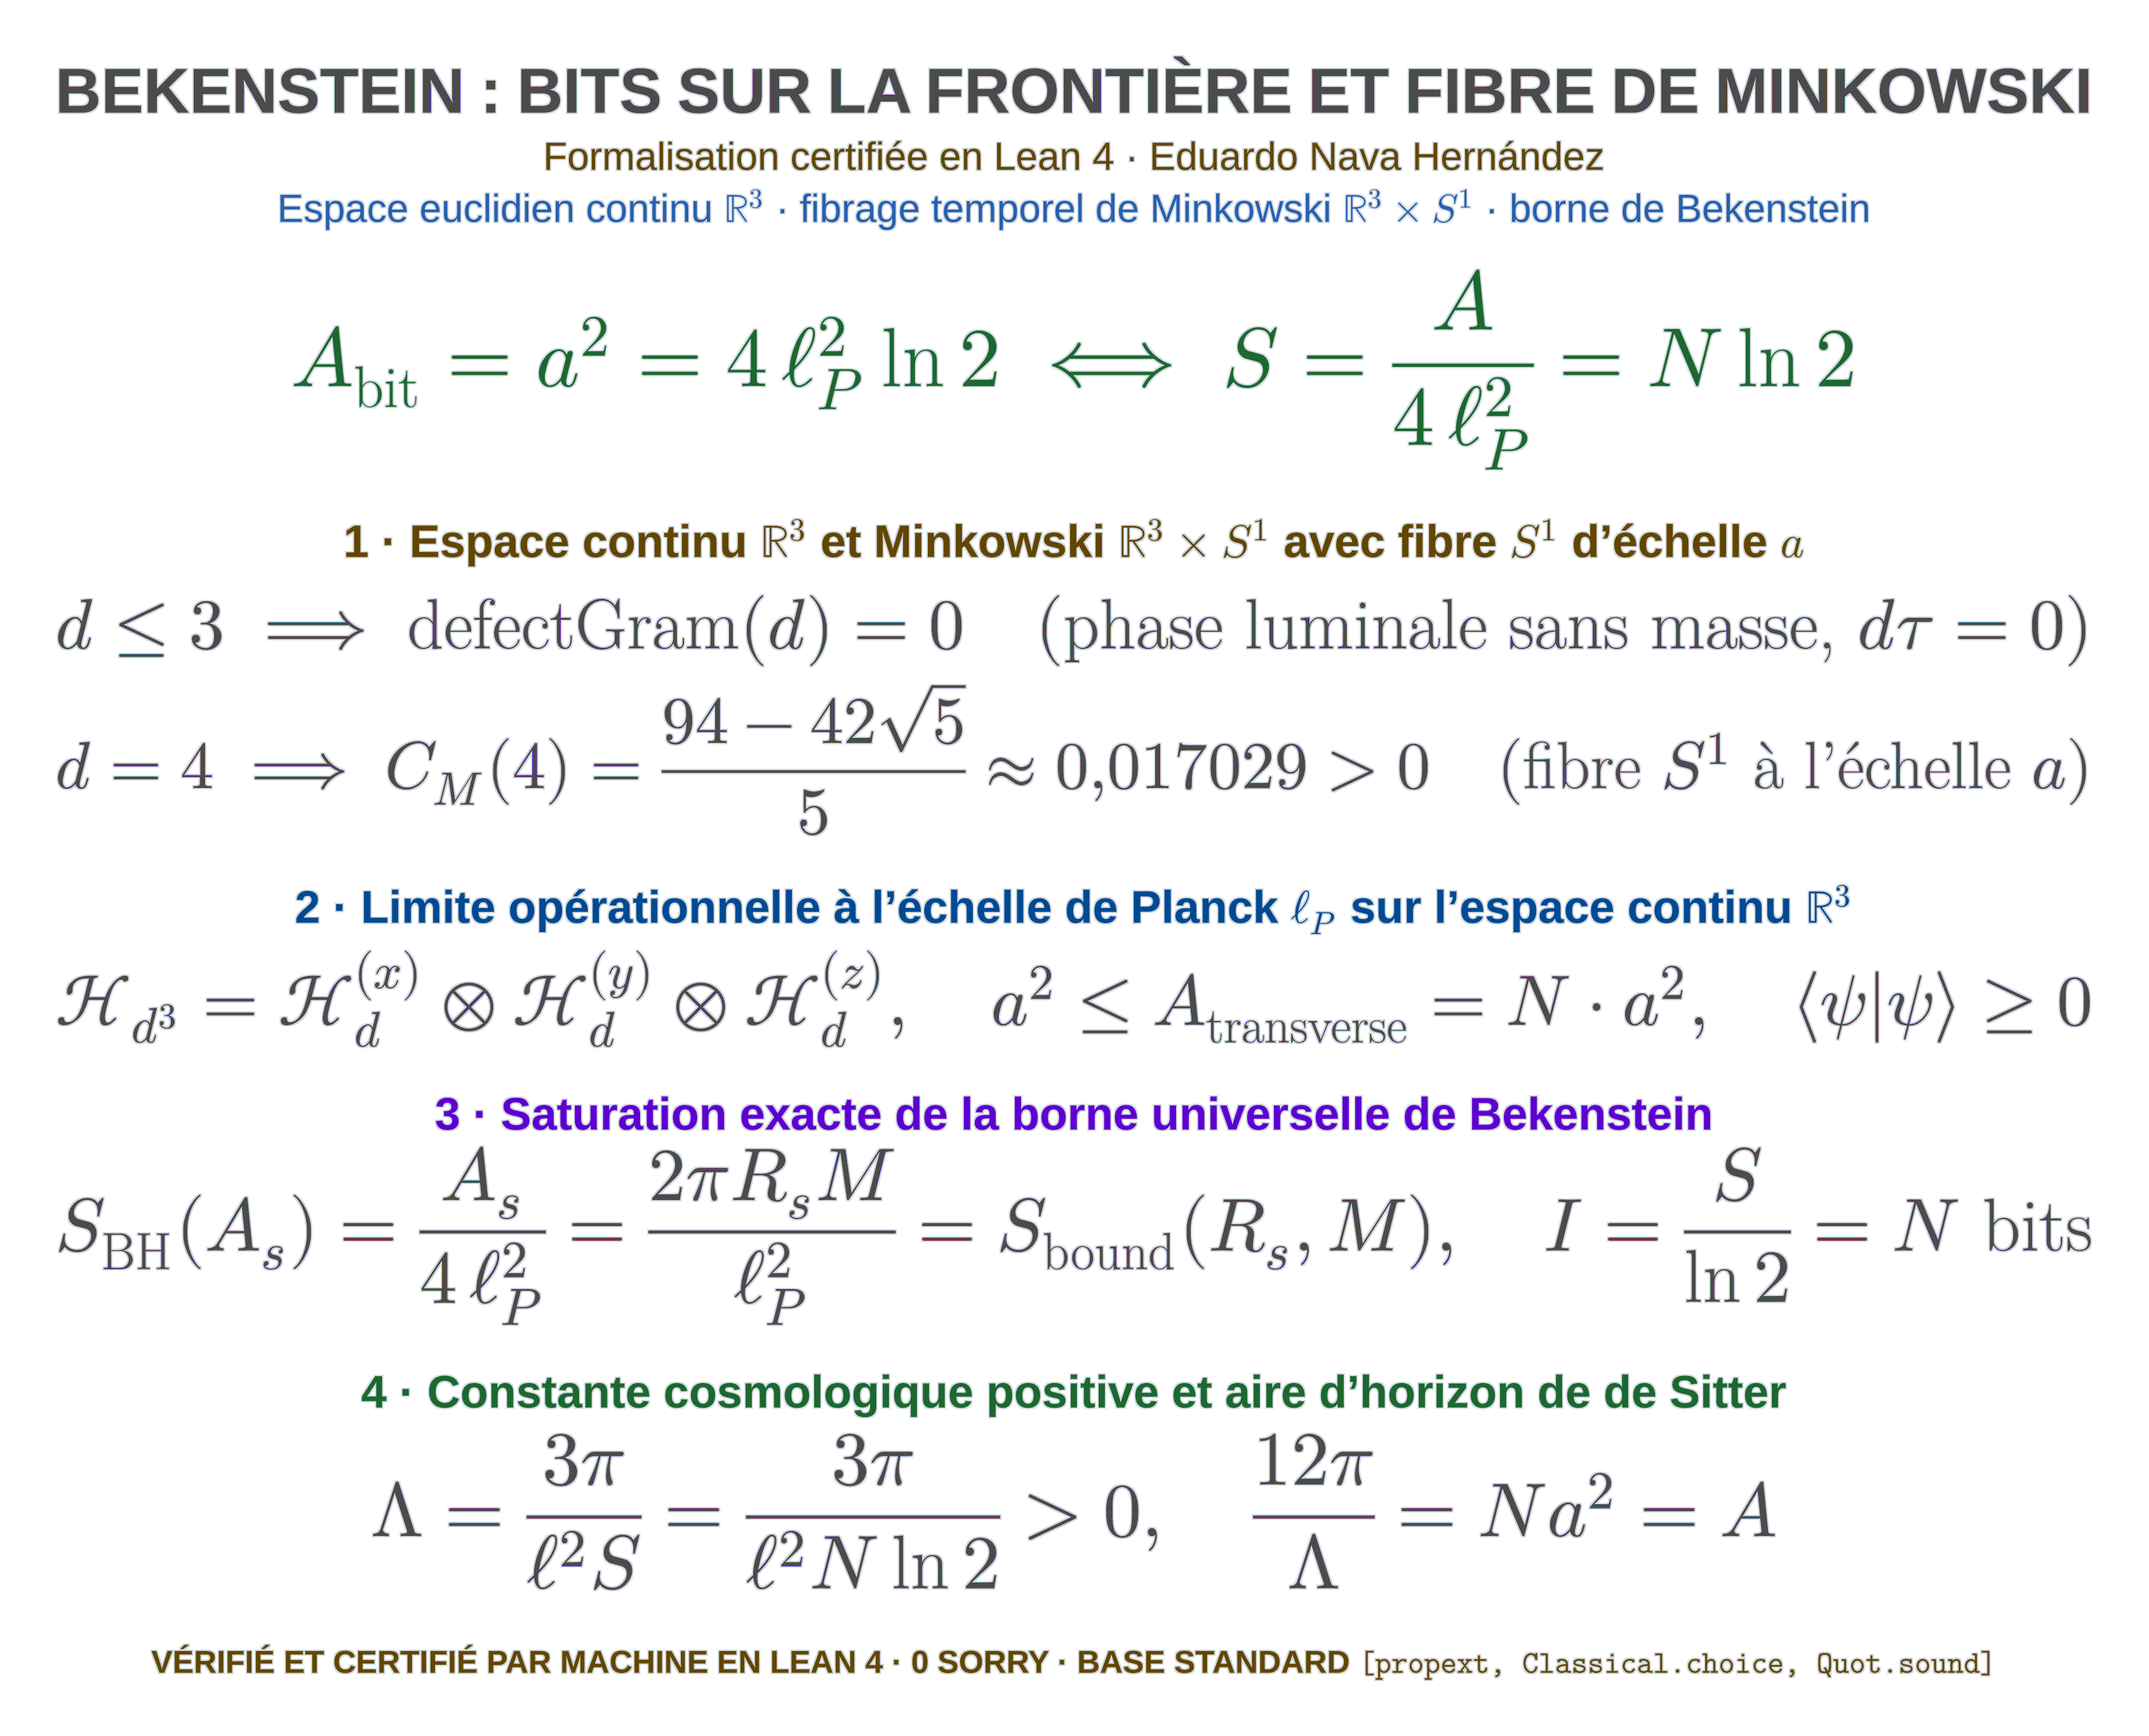
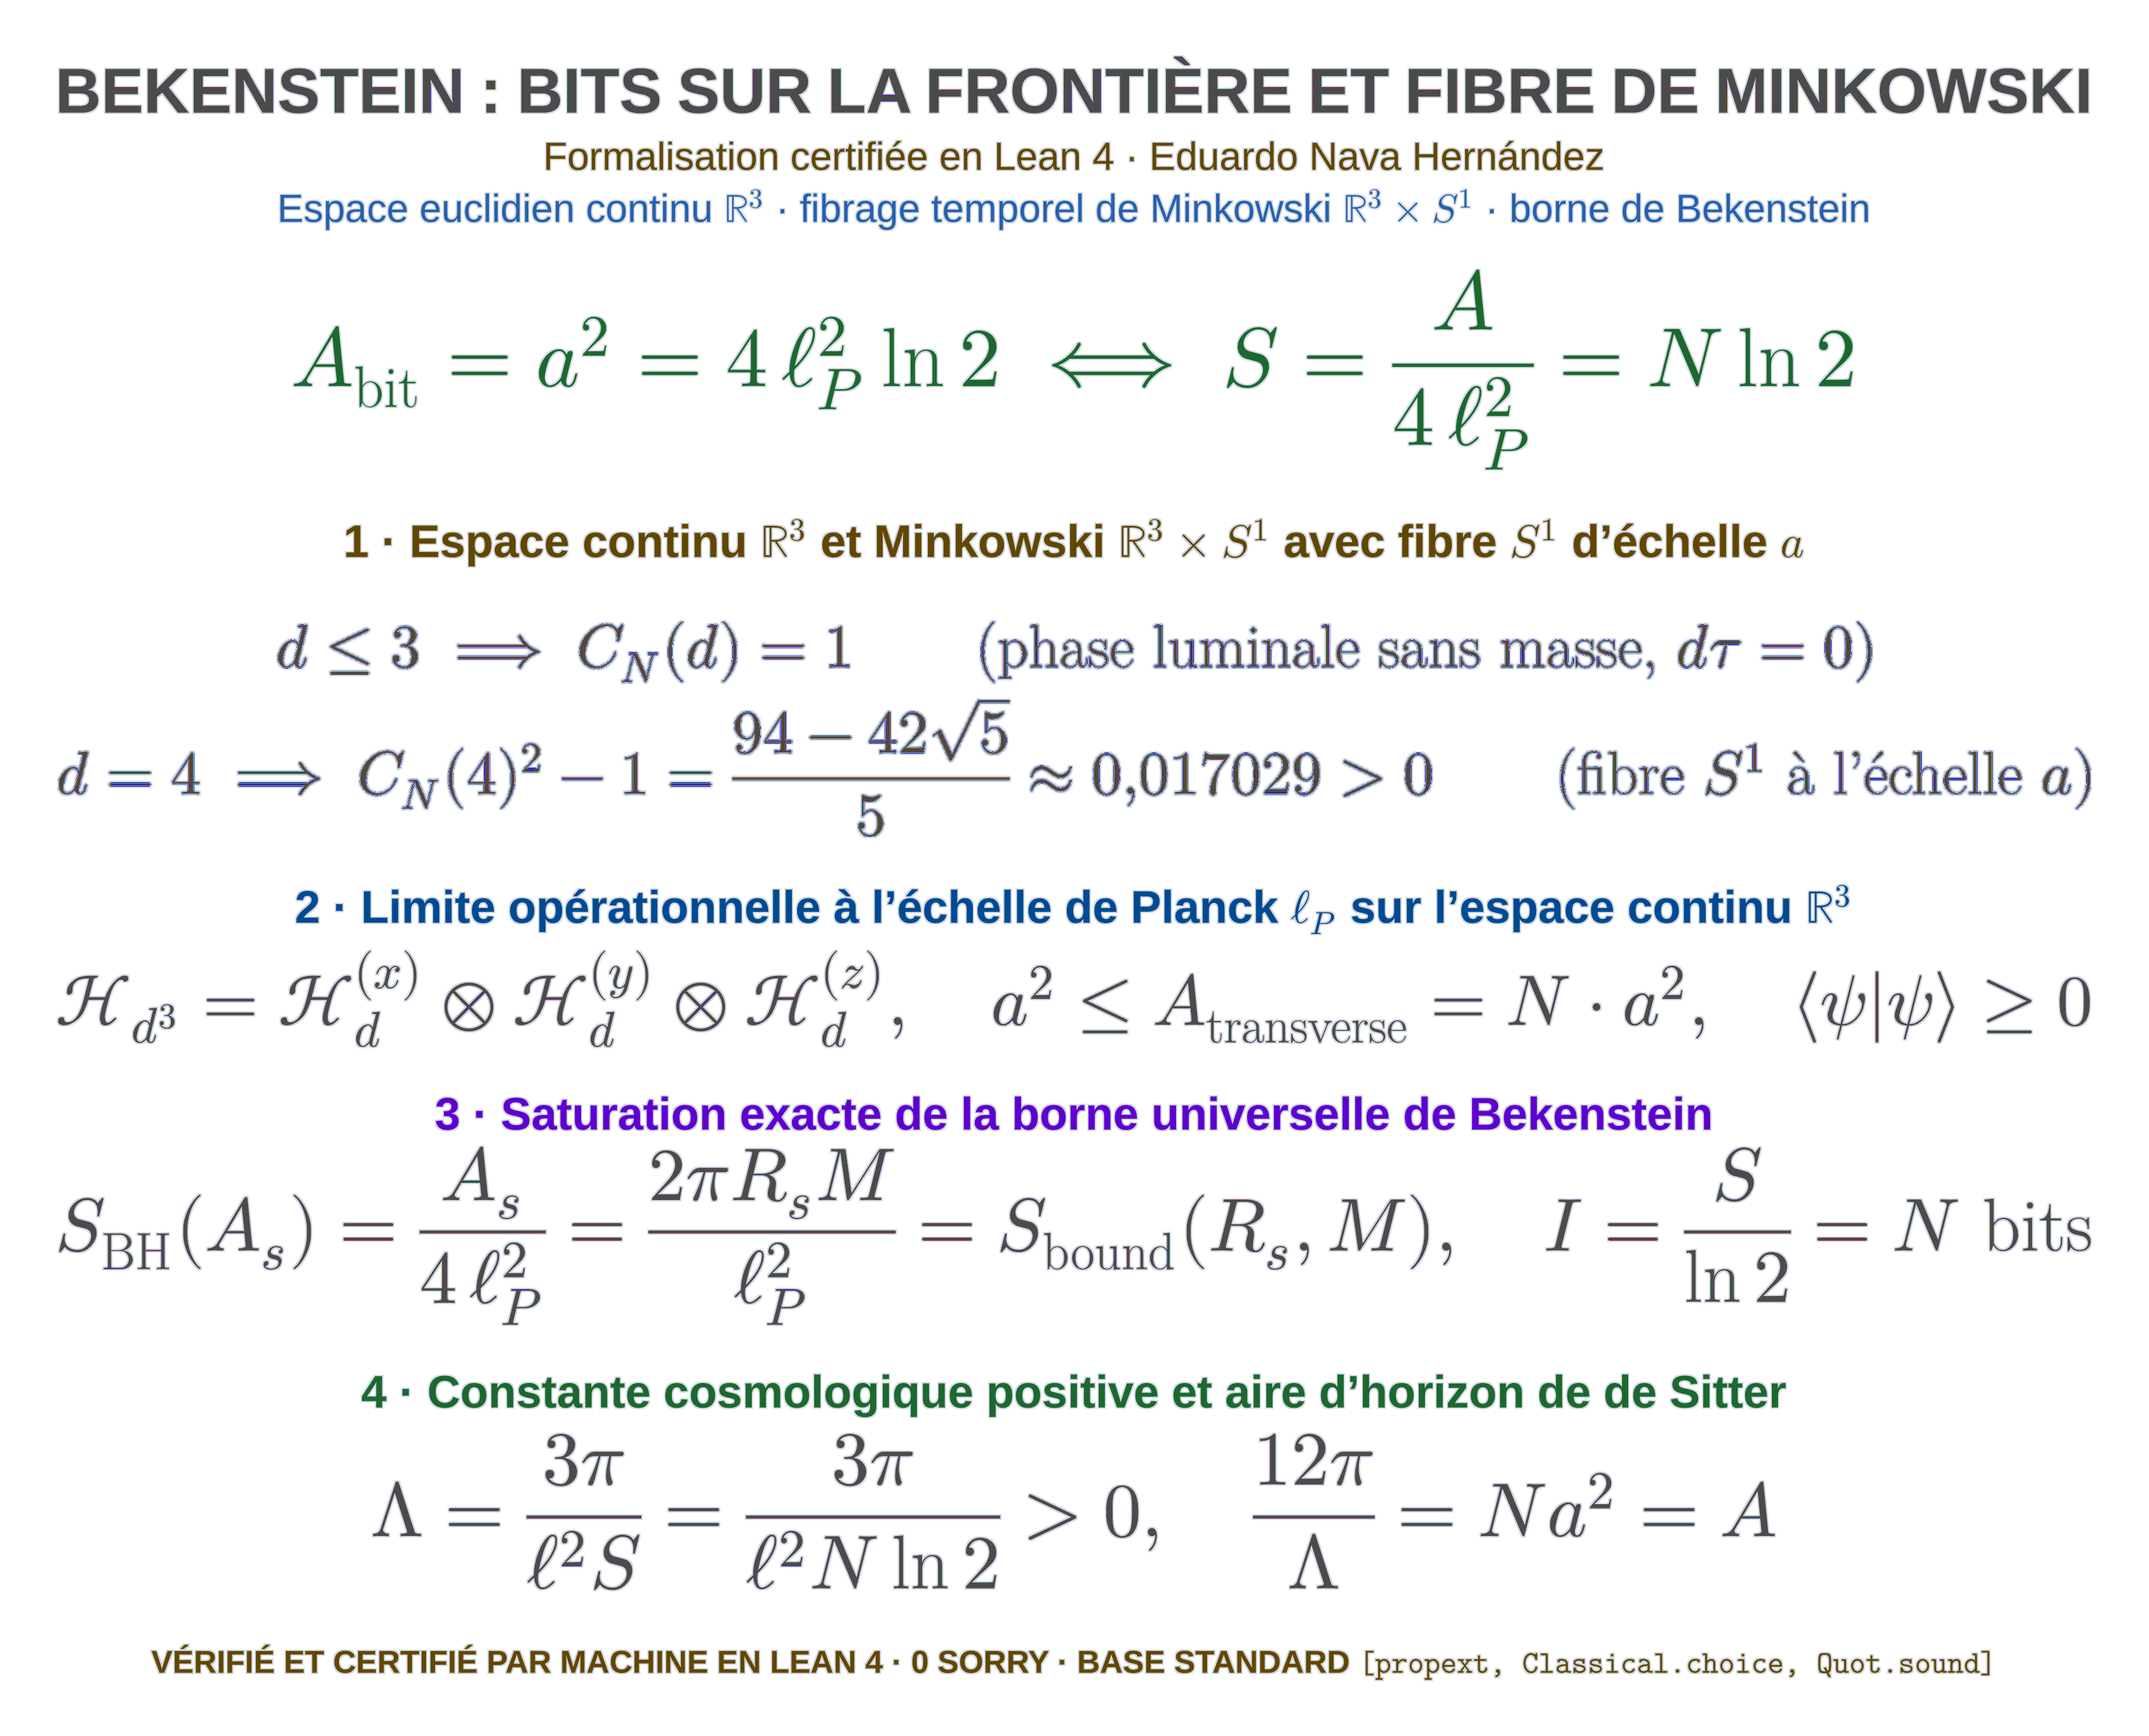
docs(readme): résumé formel, catalogue, ordre canonique ; pilier 1 en C_N (unités de Planck)

Changed region(s): [[0.031, 0.342, 0.9929, 0.4974]]

diff --git a/README.md b/README.md
@@ -42,10 +42,10 @@
 > **1 · Espace continu infini ℝ³ et Minkowski ℝ³ × S¹ avec fibre temporelle d'échelle a.**  
 > L'espace physique tridimensionnel est l'espace euclidien continu ouvert ℝ³.
 > La 4ᵉ dimension est la fibre temporelle propre sur S¹ à l'échelle du générateur `a` :
-> * Phase spatiale pure 3D (`d ≤ 3`) : `defectGram(d) = 0`, phase luminale sans masse (`dτ = 0`).
+> * Phase spatiale pure 3D (`d ≤ 3`) : `C_N(d) = 1`, phase luminale sans masse (`dτ = 0`).
 > * Parcours du temps propre (`d = 4`, `dτ > 0`) : active les matrices de Clifford et le défaut
->   irréductible de Szegő `C_M(4) = (94 − 42√5)/5 ≈ 0.017029 > 0`.
-> * Positivité hilbertienne : `⟨ψ|ψ⟩ ≥ 0 ⟹ defectGram(d) ≥ 0` (flèche causale stricte).
+>   irréductible de Szegő `C_N(4)² − 1 = (94 − 42√5)/5 ≈ 0.017029 > 0` (dépôt canonique, modules D8 et D20).
+> * Positivité hilbertienne : `⟨ψ|ψ⟩ ≥ 0 ⟹` défaut de Gram `≥ 0` (flèche causale stricte).
 >
 > **2 · Limite opérationnelle à l'échelle de Planck ℓ_P (pas de treillis spatial rigide).**  
 > Ce qui est quantifié est la résolution `d` du générateur de transport métrique `(T_d, P_d)`
@@ -75,7 +75,18 @@
 
 ---
 
-## Cadre géométrique : espace continu ℝ³ et variété Minkowski ℝ³ × S¹
+## ⚡ Résumé formel
+
+*Convention : les modules Lean travaillent en unités de Planck (G = c = ħ = 1) ; les formules affichées restituent k_B, ħ, c et G.*
+
+* L'aire d'un bit sur la fibre de Minkowski est `a² = 4 ℓ_P² log 2`, et `S_BH(N · a²) = N log 2` si et seulement si cette aire vaut un bit : [`NRS3Bekenstein/BoundaryBits.lean`](NRS3Bekenstein/BoundaryBits.lean) (`bekenstein_bit_area_eq_fiber_area`, `bekenstein_hawking_entropy_eq_bits`, `bekenstein_hawking_iff_bit_area`).
+* La borne universelle `2 π R M / ℓ_P²` est saturée par le trou noir de Schwarzschild, et la capacité vaut `N` bits : [`NRS3Bekenstein/BekensteinBound.lean`](NRS3Bekenstein/BekensteinBound.lean) (`schwarzschild_saturates_bekenstein_bound`, `maxInformationBits_boundaryArea`).
+* Toute coupe transverse opérationnelle porte au moins un bit, `a² ≤ (dy · dz · k) · a²` : [`NRS3Bekenstein/OperationalLimit.lean`](NRS3Bekenstein/OperationalLimit.lean) (`transverseCount_pos`, `operational_area_ge_single_bit`).
+* `Λ = 3 π / (ℓ² N log 2) > 0`, strictement décroissante en `N`, et l'aire d'horizon de de Sitter vaut `12 π / Λ = N a²` : [`NRS3Bekenstein/CosmologicalConstant.lean`](NRS3Bekenstein/CosmologicalConstant.lean) (`cosmologicalConstantBits_pos`, `cosmologicalConstantBits_strictAnti`, `horizonArea_cosmologicalConstantBits`).
+
+---
+
+## 🧭 Cadre géométrique : espace continu ℝ³ et variété Minkowski ℝ³ × S¹
 
 Dans la physique classique de la gravitation, Jacob Bekenstein (1947–2015, né à Mexico) a
 compris que l'information thermodynamique maximale ne remplit pas le volume d'une région, mais
@@ -88,9 +99,9 @@ Notre formalisation démontre que ce résultat découle de la géométrie contin
 * Le produit tensoriel `ℋ_{d³} = ℋ_d^{(x)} ⊗ ℋ_d^{(y)} ⊗ ℋ_d^{(z)}` assure la commutation
   des déplacements transverses `[O_X, O_Y] = 0`.
 * La variété d'espace-temps est Minkowski `ℝ³ × S¹` :
-  * Pour `d ≤ 3`, la phase luminale est sans masse (`defectGram = 0`, `dτ = 0`).
+  * Pour `d ≤ 3`, la phase luminale est sans masse (`C_N(d) = 1`, `dτ = 0`).
   * Pour `d = 4`, la progression le long de la fibre temporelle propre (`dτ > 0`) active la
-    structure spinorielle et le défaut de Szegő `C_M(4) > 0`.
+    structure spinorielle et le défaut de Szegő `C_N(4)² − 1 > 0`.
   * La surface minimale d'un bit de Bekenstein sur la frontière est l'aire de cette fibre :
     `a² = 4 ℓ_P² log 2`.
 
@@ -143,7 +154,14 @@ Notre formalisation démontre que ce résultat découle de la géométrie contin
 
 ---
 
-## Résultats formels certifiés en Lean 4
+## 📚 Catalogue des modules Lean
+
+| Module | Théorème principal | Signification | `sorry` |
+|:---|:---|:---|:---:|
+| [`NRS3Bekenstein/BoundaryBits.lean`](NRS3Bekenstein/BoundaryBits.lean) | `bekenstein_hawking_iff_bit_area` | `S_BH(N · a²) = N log 2` ⟺ `a² = 4 ℓ_P² log 2` | 0 |
+| [`NRS3Bekenstein/BekensteinBound.lean`](NRS3Bekenstein/BekensteinBound.lean) | `schwarzschild_saturates_bekenstein_bound` | Schwarzschild sature la borne de Bekenstein | 0 |
+| [`NRS3Bekenstein/OperationalLimit.lean`](NRS3Bekenstein/OperationalLimit.lean) | `operational_area_ge_single_bit` | Toute coupe opérationnelle a une aire `≥ a²` | 0 |
+| [`NRS3Bekenstein/CosmologicalConstant.lean`](NRS3Bekenstein/CosmologicalConstant.lean) | `horizonArea_cosmologicalConstantBits` | Aire d'horizon `12 π / Λ = N · a²` | 0 |
 
 ### 1. Les bits de frontière et l'aire de la fibre de Minkowski
 
@@ -194,40 +212,7 @@ les axiomes standard de ZFC : `propext`, `Classical.choice` et `Quot.sound`.
 
 ---
 
-## Compilation et certification du noyau
-
-Le projet utilise Lean 4 `v4.34.0` et Mathlib `v4.34.0` en mode 100% Mathlib pur.
-
-```bash
-lake exe cache get
-lake build
-lake env lean Verification/Axioms.lean   # uniquement propext, Classical.choice, Quot.sound
-```
-
-Spécifications formelles : 0 sorry, aucun axiome ad hoc, `autoImplicit = false`,
-lignes de 100 caractères au maximum.
-
----
-
-## Chronologie 1911–1973
-
-| Année | Événement | Dépôt associé |
-|---|---|---|
-| 1911 | Premier congrès Solvay : radiation et quanta | |
-| 1911–12 | Poincaré : la loi de Planck impose des niveaux discrets | [`nrs3-poincare`](https://github.com/naype888-cloud/nrs3-poincare) |
-| 1915–20 | Szegő : théorèmes limites pour matrices de Toeplitz | [Dépôt de base (RS^N, RS^N³)](https://github.com/naype888-cloud/nava-robertson-schrodinger) |
-| 1917–27 | Einstein et de Sitter : `Λ` ; Friedmann et Lemaître | [`nrs3-de-sitter`](https://github.com/naype888-cloud/nrs3-de-sitter) |
-| 1925–27 | Pauli : exclusion, couches `2n²`, matrices de spin | [`nrs3-pauli-dirac`](https://github.com/naype888-cloud/nrs3-pauli-dirac) |
-| 1927 | Relation d'incertitude de Heisenberg ; Solvay | |
-| 1928 | Dirac : matrices gamma `4 × 4` | [`nrs3-pauli-dirac`](https://github.com/naype888-cloud/nrs3-pauli-dirac) |
-| 1929 | van der Waerden : spineurs, `SL(2, ℂ)` | [`nrs3-uncertainty-cone`](https://github.com/naype888-cloud/nrs3-uncertainty-cone) |
-| **1929–30** | **Robertson et Schrödinger : l'inégalité d'incertitude** | **[Dépôt de base (RS^N, RS^N³)](https://github.com/naype888-cloud/nava-robertson-schrodinger)** |
-| 1945–46 | Mandelstam–Tamm ; Rao (1945), Cramér (1946) | [`nrs3-mandelstam-tamm-cramer-rao`](https://github.com/naype888-cloud/nrs3-mandelstam-tamm-cramer-rao) |
-| 1972–73 | **Bekenstein : entropie des trous noirs et bits sur la frontière** | **[RS^N³ · Bekenstein](https://github.com/naype888-cloud/nrs3-bekenstein)** (ce dépôt) |
-
----
-
-## La mosaïque des dépôts RS^N³
+## 🏛 La mosaïque des dépôts RS^N³
 
 - [RS^N et RS^N³ — Le théorème de base](https://github.com/naype888-cloud/nava-robertson-schrodinger)
 - [RS^N³ · Mandelstam–Tamm et Cramér–Rao](https://github.com/naype888-cloud/nrs3-mandelstam-tamm-cramer-rao)
@@ -245,6 +230,39 @@ lignes de 100 caractères au maximum.
 
 ---
 
-## Licence
+## ⏱ Chronologie 1911–1973
+
+| Année | Événement | Dépôt associé |
+|---|---|---|
+| 1911 | Premier congrès Solvay : radiation et quanta | |
+| 1911–12 | Poincaré : la loi de Planck impose des niveaux discrets | [`nrs3-poincare`](https://github.com/naype888-cloud/nrs3-poincare) |
+| 1915–20 | Szegő : théorèmes limites pour matrices de Toeplitz | [Dépôt de base (RS^N, RS^N³)](https://github.com/naype888-cloud/nava-robertson-schrodinger) |
+| 1917–27 | Einstein et de Sitter : `Λ` ; Friedmann et Lemaître | [`nrs3-de-sitter`](https://github.com/naype888-cloud/nrs3-de-sitter) |
+| 1925–27 | Pauli : exclusion, couches `2n²`, matrices de spin | [`nrs3-pauli-dirac`](https://github.com/naype888-cloud/nrs3-pauli-dirac) |
+| 1927 | Relation d'incertitude de Heisenberg ; Solvay | |
+| 1928 | Dirac : matrices gamma `4 × 4` | [`nrs3-pauli-dirac`](https://github.com/naype888-cloud/nrs3-pauli-dirac) |
+| 1929 | van der Waerden : spineurs, `SL(2, ℂ)` | [`nrs3-uncertainty-cone`](https://github.com/naype888-cloud/nrs3-uncertainty-cone) |
+| **1929–30** | **Robertson et Schrödinger : l'inégalité d'incertitude** | **[Dépôt de base (RS^N, RS^N³)](https://github.com/naype888-cloud/nava-robertson-schrodinger)** |
+| 1945–46 | Mandelstam–Tamm ; Rao (1945), Cramér (1946) | [`nrs3-mandelstam-tamm-cramer-rao`](https://github.com/naype888-cloud/nrs3-mandelstam-tamm-cramer-rao) |
+| 1972–73 | **Bekenstein : entropie des trous noirs et bits sur la frontière** | **[RS^N³ · Bekenstein](https://github.com/naype888-cloud/nrs3-bekenstein)** (ce dépôt) |
+
+---
+
+## 🛠 Compilation et certification du noyau
+
+Le projet utilise Lean 4 `v4.34.0` et Mathlib `v4.34.0` en mode 100% Mathlib pur.
+
+```bash
+lake exe cache get
+lake build
+lake env lean Verification/Axioms.lean   # uniquement propext, Classical.choice, Quot.sound
+```
+
+Spécifications formelles : 0 sorry, aucun axiome ad hoc, `autoImplicit = false`,
+lignes de 100 caractères au maximum.
+
+---
+
+## 📜 Licence
 
 NRS Noncommercial License 1.0.0, voir [`LICENSE`](LICENSE). Auteur : Eduardo Nava Hernández.
